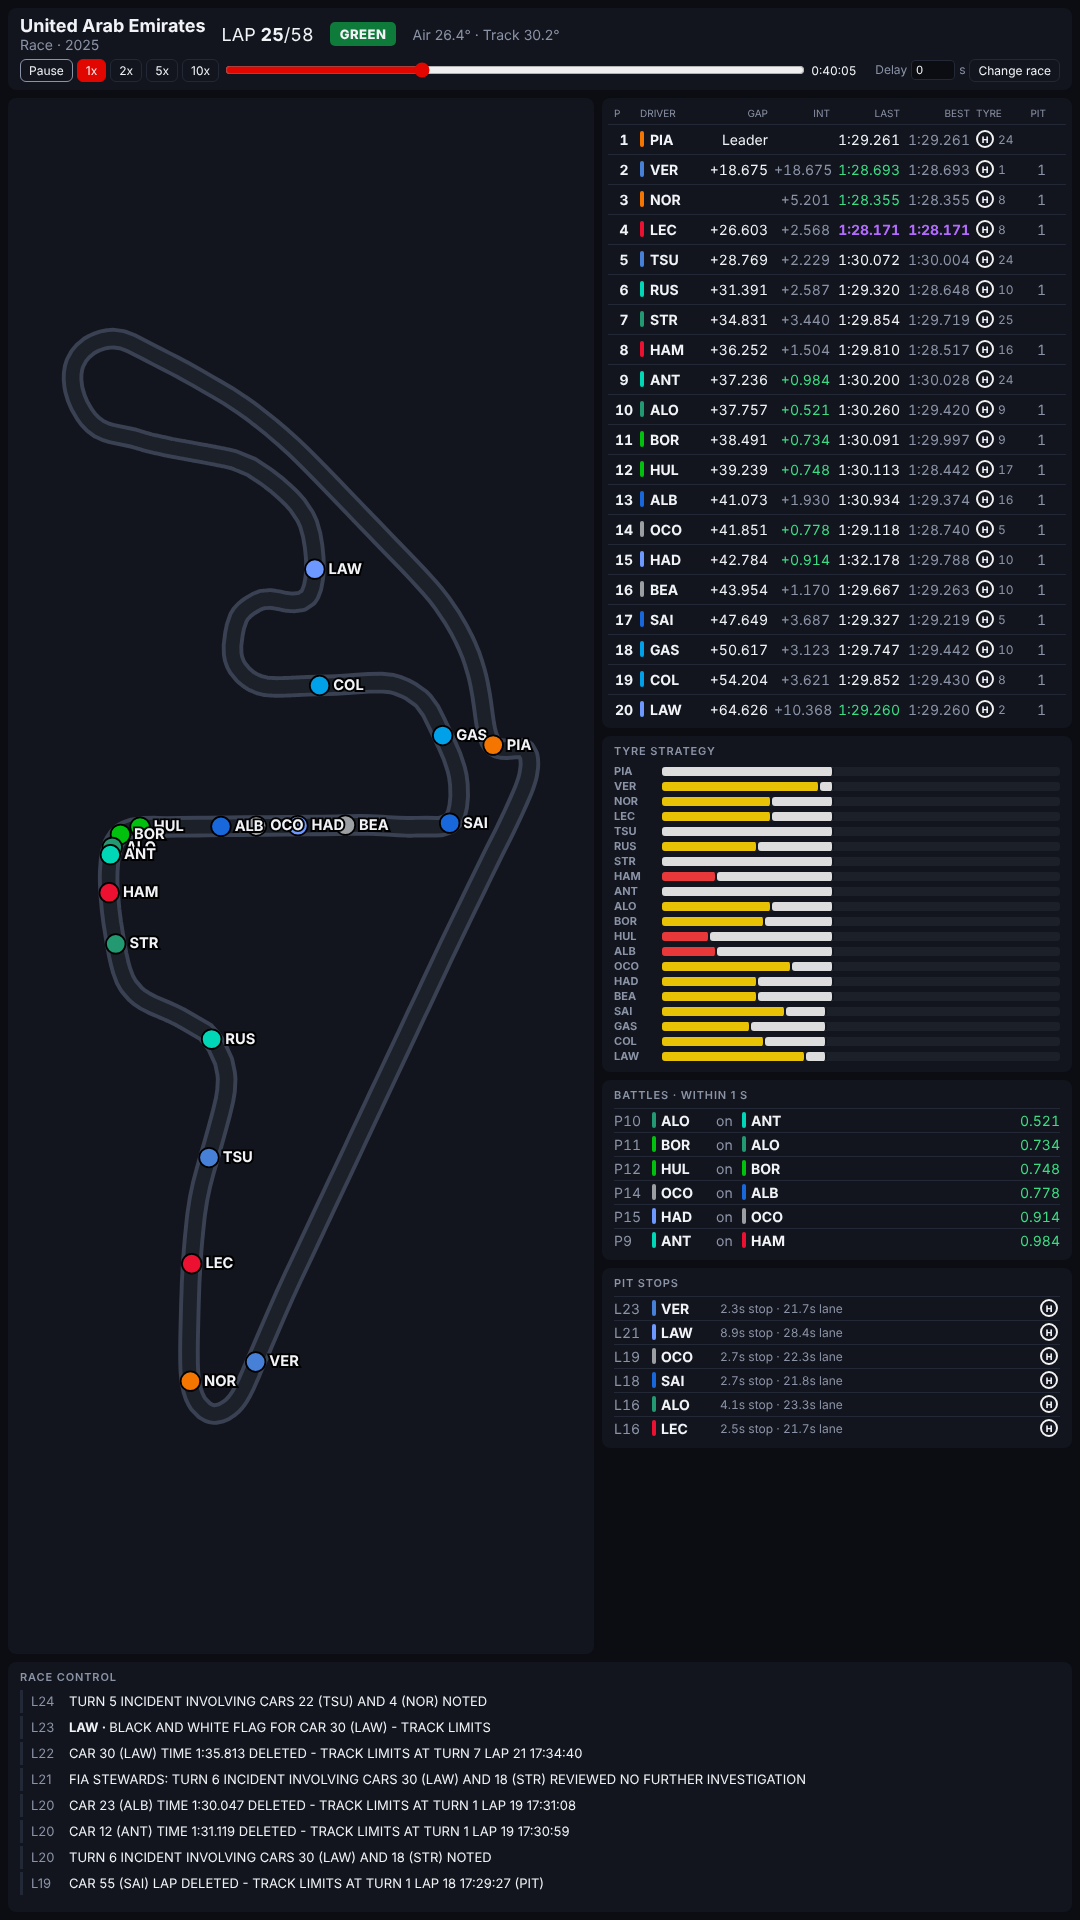
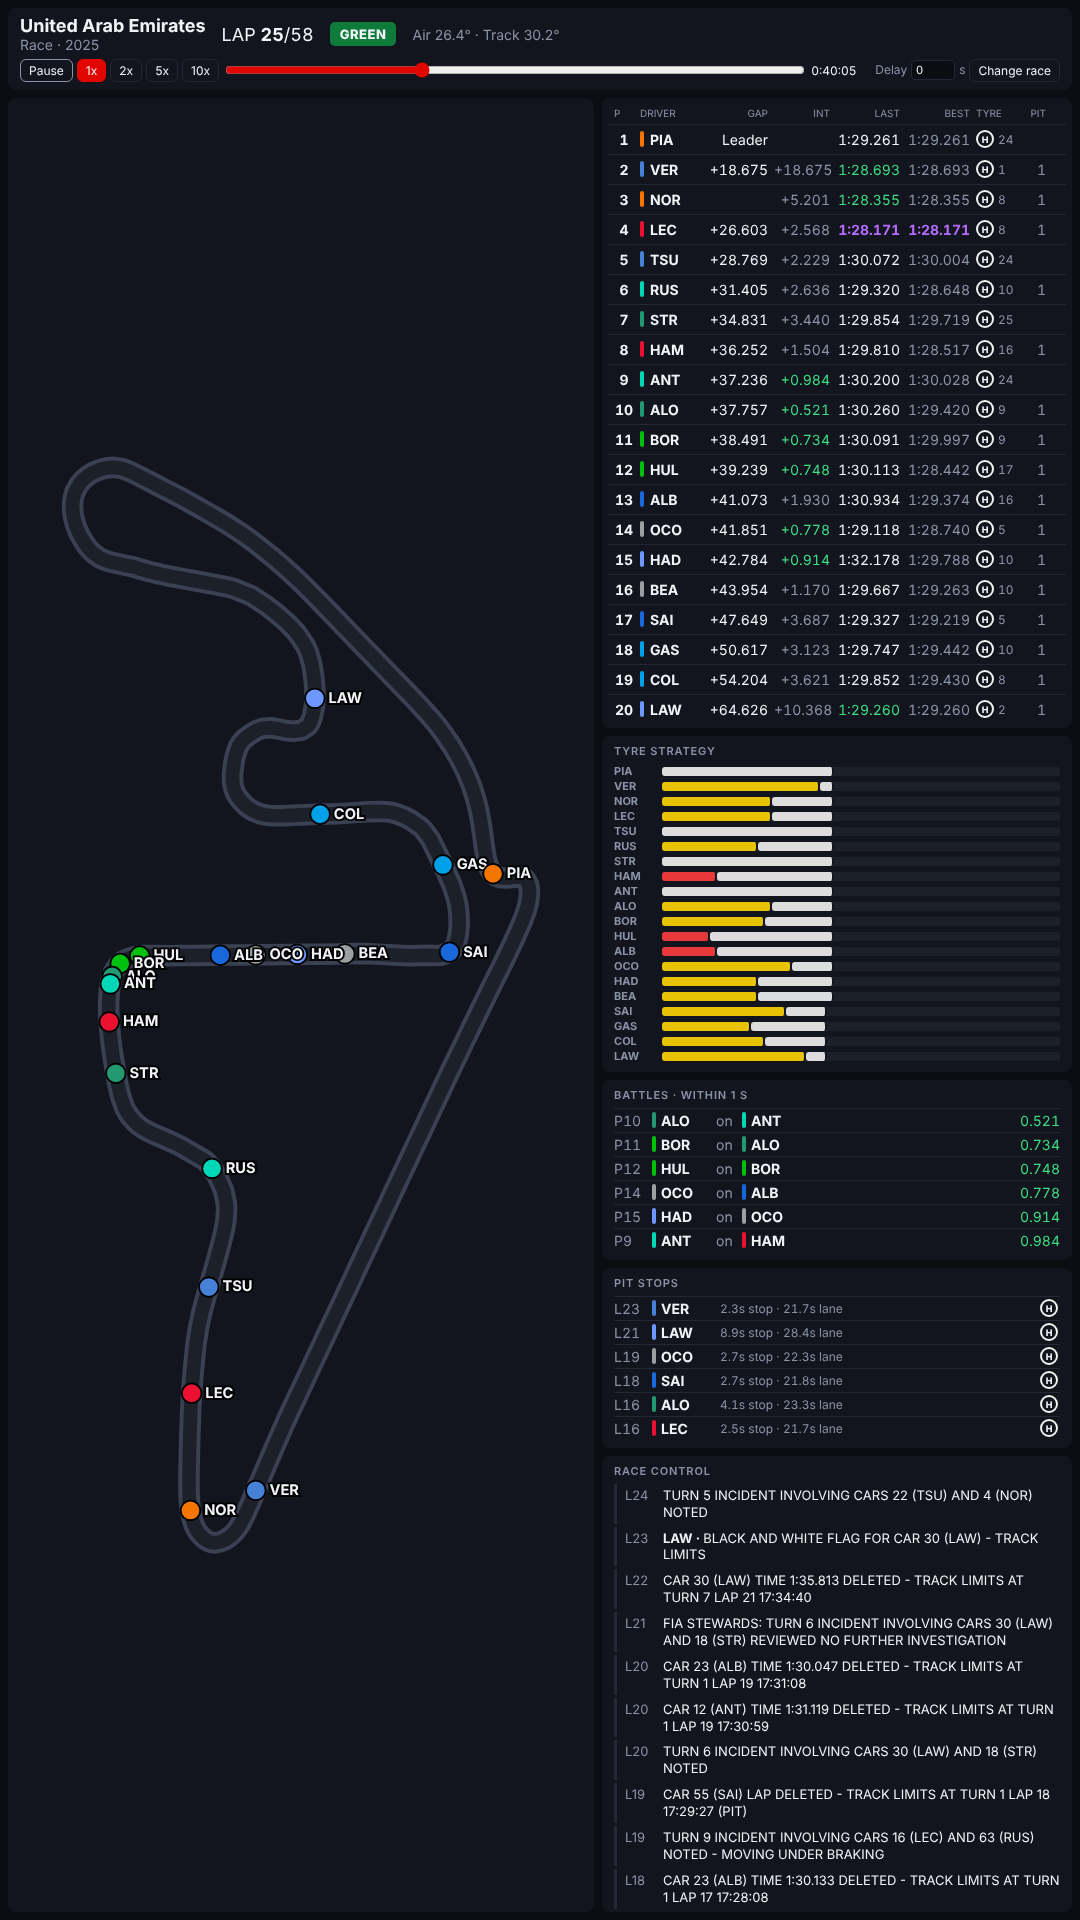
Move race control into the right column
The track map now runs the full height on the left, and race control
sits under battles and pit stops at the same width.

Claude-Session: https://claude.ai/code/session_013iayvYNavWwSzpfZZMRSyD

diff --git a/web/src/styles.css b/web/src/styles.css
@@ -27,8 +27,8 @@ button.ghost { background: transparent; }
 .layout {
   height: 100vh; display: grid; gap: 8px; padding: 8px;
   grid-template-columns: 1fr 470px;
-  grid-template-rows: auto auto 1fr 13vh;
-  grid-template-areas: 'header header' 'map tower' 'map side' 'rc rc';
+  grid-template-rows: auto auto 1fr;
+  grid-template-areas: 'header header' 'map tower' 'map side';
   font-size: 14px;
 }
 .header { grid-area: header; display: flex; flex-direction: column; gap: 6px; padding: 8px 12px; background: var(--panel); border-radius: 8px; }
@@ -69,7 +69,6 @@ button.ghost { background: transparent; }
 .panel { background: var(--panel); border-radius: 8px; padding: 8px 12px; overflow: hidden; }
 .panel h2 { margin: 0 0 6px; font-size: 11px; text-transform: uppercase; letter-spacing: 0.08em; color: var(--muted); font-weight: 600; }
 .side { grid-area: side; display: flex; flex-direction: column; gap: 8px; min-height: 0; }
-.side-pair { display: grid; grid-template-columns: 1fr; gap: 8px; }
 .strategy .strat-row { display: grid; grid-template-columns: 40px 1fr; align-items: center; gap: 8px; height: 15px; }
 .strat-name { font-size: 11px; font-weight: 700; color: var(--muted); }
 .strat-bar { position: relative; height: 9px; background: #1b2029; border-radius: 3px; }
@@ -80,9 +79,9 @@ button.ghost { background: transparent; }
 .battle .gap { color: #3ddc84; }
 .pit { grid-template-columns: 30px 60px 1fr 20px; }
 
-.rc { grid-area: rc; }
+.rc { flex: 1; min-height: 0; }
 .rc-item { display: grid; grid-template-columns: 30px 1fr; gap: 8px; padding: 3px 0 3px 8px; border-left: 3px solid var(--line); margin-bottom: 3px; font-size: 13px; line-height: 1.3; }
-.rc-item .msg { overflow: hidden; text-overflow: ellipsis; white-space: nowrap; }
+.rc-item .msg { overflow: hidden; display: -webkit-box; -webkit-line-clamp: 2; -webkit-box-orient: vertical; }
 .rc-item.rcf-YELLOW, .rc-item.rcf-DOUBLE-YELLOW, .rc-item.cat-SafetyCar { border-left-color: #f2c200; }
 .rc-item.rcf-RED { border-left-color: #d40000; }
 .rc-item.rcf-GREEN, .rc-item.rcf-CLEAR { border-left-color: #0f7b3a; }

diff --git a/web/src/App.tsx b/web/src/App.tsx
@@ -33,12 +33,10 @@ export function App() {
       <TimingTower />
       <div className="side">
         <TyreStrategy />
-        <div className="side-pair">
-          <Battles />
-          <PitStops />
-        </div>
+        <Battles />
+        <PitStops />
+        <RaceControl />
       </div>
-      <RaceControl />
     </div>
   );
 }

diff --git a/web/src/components/RaceControl.tsx b/web/src/components/RaceControl.tsx
@@ -3,7 +3,7 @@ import { useDashboard } from '../state';
 export function RaceControl() {
   const feed = useDashboard((s) => s.race_control);
   const drivers = useDashboard((s) => s.drivers);
-  const latest = [...feed].reverse().slice(0, 8);
+  const latest = [...feed].reverse().slice(0, 12);
 
   return (
     <section className="panel rc">
